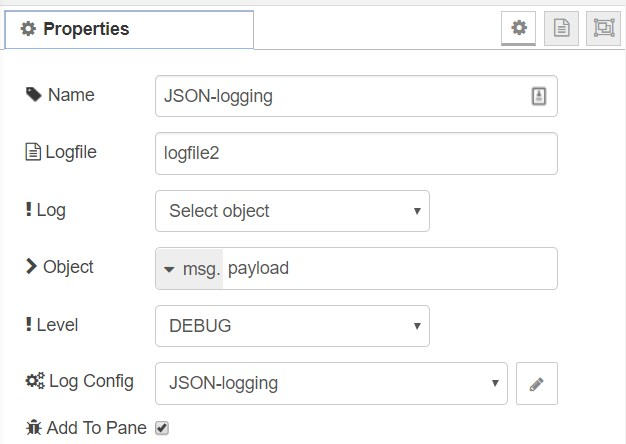
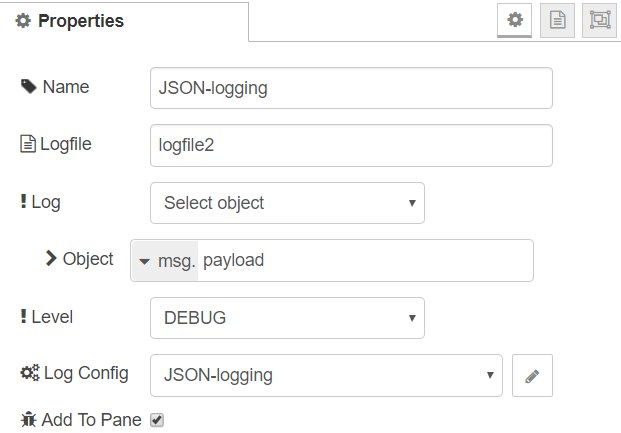
Indent if settings in web-if

diff --git a/flogger.html b/flogger.html
@@ -18,13 +18,9 @@
 		oneditprepare: function() {
 			$("#node-config-input-logrotate").change(function() {
       			if ($(this).is(':checked')) {
-      				$(".compress").show()
-      				$(".logrotatecount").show()
-      				$(".logsize").show()
+      				$("#node-config-rotate-row").show()
       			} else {
-      				$(".compress").hide()
-      				$(".logrotatecount").hide()
-      				$(".logsize").hide()
+      				$("#node-config-rotate-row").hide()
       			}
 			})
 		},
@@ -65,17 +61,19 @@
 		<label for="node-config-input-logrotate"><i class="fa fa-repeat"></i> Rotate</label>
 		<input type="checkbox" id="node-config-input-logrotate" style="display: inline-block; width: auto; vertical-align: top;">
 	</div>
-	<div class="form-row compress">
-		<label for="node-config-input-logcompress"><i class="fa fa-compress"></i> Compress</label>
-		<input type="checkbox" id="node-config-input-logcompress" style="display: inline-block; width: auto; vertical-align: top;">
-	</div>
-	<div class="form-row logrotatecount">
-		<label for="node-config-input-logrotatecount"><i class="fa fa-hashtag"></i> Max logfiles</label>
-		<input type="text" id="node-config-input-logrotatecount">
-	</div>
-	<div class="form-row logsize">
-		<label for="node-config-input-logsize"><i class="fa fa-hashtag"></i> Max size /kB</label>
-		<input type="text" id="node-config-input-logsize">
+	<div id="node-config-rotate-row">
+		<div class="form-row">
+			<label style="width: auto; margin-left: 20px; margin-right: 10px;" for="node-config-input-logcompress"><i class="fa fa-compress"></i> Compress</label>
+			<input type="checkbox" id="node-config-input-logcompress" style="display: inline-block; width: auto; vertical-align: top;">
+		</div>
+		<div class="form-row">
+			<label style="width: auto; margin-left: 20px; margin-right: 10px;" for="node-config-input-logrotatecount"><i class="fa fa-hashtag"></i> Max logfiles</label>
+			<input type="text" id="node-config-input-logrotatecount" style="display: inline-block; width: 50%; vertical-align: top;">
+		</div>
+		<div class="form-row">
+			<label style="width: auto; margin-left: 20px; margin-right: 10px;" for="node-config-input-logsize"><i class="fa fa-hashtag"></i> Max size /kB</label>
+			<input type="text" id="node-config-input-logsize" style="display: inline-block; width: 50%; vertical-align: top;">
+		</div>
 	</div>
 </script>
 
@@ -147,11 +145,11 @@
 		</select>
 	</div>
 		<div class="form-row inputmoustache">
-		<label for="node-input-inputobject"><i class="fa fa-chevron-right"></i> Moustache</label>
+		<label style="width: auto; margin-left: 20px; margin-right: 10px;" for="node-input-inputobject"><i class="fa fa-chevron-right"></i> Moustache</label>
 		<textarea id="node-input-inputmoustache" rows="5" style="width:70%"></textarea>
 	</div>
 	<div class="form-row inputobject">
-		<label for="node-input-inputobject"><i class="fa fa-chevron-right"></i> Object</label>
+		<label style="width: auto; margin-left: 20px; margin-right: 10px;" for="node-input-inputobject"><i class="fa fa-chevron-right"></i> Object</label>
 		<input type="text" id="node-input-inputobject" style="width:70%">
 		<input type="hidden" id="node-input-inputobjectType">
 	</div>

diff --git a/README.md b/README.md
@@ -6,6 +6,8 @@ With flogger you can log to multiple logfiles from everywhere in your flows.  It
 
 You can define different output formats like plain textfile or JSON format like NLOG. 
 
+Logrotation with/without compression can be enabled.
+
 **Here is an example of how to use the logger:**
 
 ![Example Flow](https://github.com/x821938/node-red-contrib-flogger/raw/master/misc/flow-example.jpg)
@@ -13,7 +15,7 @@ You can define different output formats like plain textfile or JSON format like 
 
 **Code:** 
 
-    [{"id":"9aa3c774.785628","type":"tab","label":"Flogger examples","disabled":false,"info":""},{"id":"bf46432d.11b6d","type":"inject","z":"9aa3c774.785628","name":"Inject object","topic":"nicetopic","payload":"{ \"field1\": \"content1\", \"field2\": \"content2\"}","payloadType":"json","repeat":"","crontab":"","once":false,"onceDelay":0.1,"x":130,"y":80,"wires":[["6ffba4f7.36441c"]]},{"id":"6ffba4f7.36441c","type":"change","z":"9aa3c774.785628","name":"Change loglevel","rules":[{"t":"set","p":"loglevel","pt":"msg","to":"DEBUG","tot":"str"}],"action":"","property":"","from":"","to":"","reg":false,"x":340,"y":80,"wires":[["dcfb9740.d188a8"]]},{"id":"dcfb9740.d188a8","type":"flogger","z":"9aa3c774.785628","name":"Log entire message","logfile":"logfile1","inputchoice":"fullmsg","inputobject":"","inputobjectType":"msg","inputmoustache":"","loglevel":"INFO","logconfig":"89c736eb.527178","sendpane":"","x":570,"y":80,"wires":[[]]},{"id":"f500ad8c.b0c5b","type":"inject","z":"9aa3c774.785628","name":"Inject object","topic":"MyTopic","payload":"{ \"field1\": \"content1\", \"field2\": \"content2\"}","payloadType":"json","repeat":"","crontab":"","once":false,"onceDelay":0.1,"x":350,"y":140,"wires":[["dcfb9740.d188a8"]]},{"id":"4cacb45b.54867c","type":"flogger","z":"9aa3c774.785628","name":"JSON-logging","logfile":"logfile2","inputchoice":"object","inputobject":"payload","inputobjectType":"msg","inputmoustache":"","loglevel":"DEBUG","logconfig":"65951bbf.0da744","sendpane":true,"x":320,"y":320,"wires":[["6b0e8d79.6822c4"]]},{"id":"cef722cc.85d82","type":"inject","z":"9aa3c774.785628","name":"","topic":"","payload":"","payloadType":"date","repeat":"","crontab":"","once":false,"onceDelay":0.1,"x":120,"y":320,"wires":[["4cacb45b.54867c"]]},{"id":"6b0e8d79.6822c4","type":"debug","z":"9aa3c774.785628","name":"Passthrough","active":true,"tosidebar":true,"console":false,"tostatus":false,"complete":"true","targetType":"full","x":550,"y":320,"wires":[]},{"id":"375008db.50b998","type":"inject","z":"9aa3c774.785628","name":"","topic":"MyTopic","payload":"MyString","payloadType":"str","repeat":"","crontab":"","once":false,"onceDelay":0.1,"x":140,"y":220,"wires":[["5cafa543.7640bc"]]},{"id":"5cafa543.7640bc","type":"flogger","z":"9aa3c774.785628","name":"Moustache logging","logfile":"logfile1","inputchoice":"moustache","inputobject":"payload","inputobjectType":"msg","inputmoustache":"Recieved payload {{payload}} and topic {{topic}}","loglevel":"TRACE","logconfig":"89c736eb.527178","sendpane":"","x":570,"y":220,"wires":[[]]},{"id":"89c736eb.527178","type":"config-log","z":"","logname":"standard-logging","logdir":"logs","stamp":"utc","logstyle":"plain"},{"id":"65951bbf.0da744","type":"config-log","z":"","logname":"JSON-logging","logdir":"logs","stamp":"local","logstyle":"json"}]
+    [{"id":"377f1788.fc8a68","type":"inject","z":"9f031946.5cd458","name":"Inject object","topic":"nicetopic","payload":"{ \"field1\": \"content1\", \"field2\": \"content2\"}","payloadType":"json","repeat":"","crontab":"","once":false,"onceDelay":0.1,"x":130,"y":80,"wires":[["bfb915fd.6f9b48"]]},{"id":"bfb915fd.6f9b48","type":"change","z":"9f031946.5cd458","name":"Change loglevel","rules":[{"t":"set","p":"loglevel","pt":"msg","to":"DEBUG","tot":"str"}],"action":"","property":"","from":"","to":"","reg":false,"x":340,"y":80,"wires":[["88a20401.3fe268"]]},{"id":"88a20401.3fe268","type":"flogger","z":"9f031946.5cd458","name":"Log entire message","logfile":"logfile1","inputchoice":"fullmsg","inputobject":"","inputobjectType":"msg","inputmoustache":"","loglevel":"INFO","logconfig":"8534e23c.037bc","sendpane":"","x":590,"y":80,"wires":[[]]},{"id":"1059364f.741efa","type":"inject","z":"9f031946.5cd458","name":"Inject object","topic":"MyTopic","payload":"{ \"field1\": \"content1\", \"field2\": \"content2\"}","payloadType":"json","repeat":"","crontab":"","once":false,"onceDelay":0.1,"x":350,"y":140,"wires":[["88a20401.3fe268"]]},{"id":"9bceb23.856d35","type":"flogger","z":"9f031946.5cd458","name":"JSON-logging","logfile":"logfile2","inputchoice":"object","inputobject":"payload","inputobjectType":"msg","inputmoustache":"","loglevel":"DEBUG","logconfig":"765188d9.56aba8","sendpane":true,"x":580,"y":320,"wires":[["5f66be4c.cfef7"]]},{"id":"70cdc2d2.df58cc","type":"inject","z":"9f031946.5cd458","name":"","topic":"","payload":"","payloadType":"date","repeat":"","crontab":"","once":false,"onceDelay":0.1,"x":120,"y":320,"wires":[["9bceb23.856d35"]]},{"id":"5f66be4c.cfef7","type":"debug","z":"9f031946.5cd458","name":"Passthrough","active":true,"tosidebar":true,"console":false,"tostatus":false,"complete":"true","targetType":"full","x":790,"y":320,"wires":[]},{"id":"cc4493c8.13aca","type":"inject","z":"9f031946.5cd458","name":"","topic":"MyTopic","payload":"MyString","payloadType":"str","repeat":"","crontab":"","once":false,"onceDelay":0.1,"x":140,"y":220,"wires":[["40062fa7.0890e"]]},{"id":"40062fa7.0890e","type":"flogger","z":"9f031946.5cd458","name":"Moustache logging","logfile":"logfile1","inputchoice":"moustache","inputobject":"payload","inputobjectType":"msg","inputmoustache":"Recieved payload {{payload}} and topic {{topic}}","loglevel":"TRACE","logconfig":"8534e23c.037bc","sendpane":"","x":590,"y":220,"wires":[[]]},{"id":"49e347a6.53fc58","type":"change","z":"9f031946.5cd458","name":"Change logfile","rules":[{"t":"set","p":"logfile","pt":"msg","to":"logfile3","tot":"str"}],"action":"","property":"","from":"","to":"","reg":false,"x":340,"y":400,"wires":[["9bceb23.856d35"]]},{"id":"5e94eecd.f05d8","type":"inject","z":"9f031946.5cd458","name":"Inject object","topic":"nicetopic","payload":"{ \"field1\": \"content1\", \"field2\": \"content2\"}","payloadType":"json","repeat":"","crontab":"","once":false,"onceDelay":0.1,"x":130,"y":400,"wires":[["49e347a6.53fc58"]]},{"id":"8534e23c.037bc","type":"config-log","z":"","logname":"standard-logging","logdir":"logs","stamp":"utc","logstyle":"plain","logrotate":true,"logcompress":true,"logrotatecount":"5","logsize":"10"},{"id":"765188d9.56aba8","type":"config-log","z":"","logname":"JSON-logging","logdir":"logs","stamp":"local","logstyle":"json","logrotate":true,"logcompress":false,"logrotatecount":"3","logsize":"1"}]
 
 **A log config - most people probably only need one:**
 
@@ -25,12 +27,13 @@ You can define different output formats like plain textfile or JSON format like 
 
 **Example output ~/logs/logfile1:**
 
-    2019/06/28 16:35:30 DEBUG [msg] {"_msgid":"1106ea8d.116c15","topic":"nicetopic","payload":{"field1":"content1","field2":"content2"},"loglevel":"DEBUG"}
-    2019/06/28 16:35:31 INFO [msg] {"_msgid":"c5195428.943708","topic":"MyTopic","payload":{"field1":"content1","field2":"content2"}}
-    2019/06/28 16:35:33 TRACE [moustache] Recieved payload MyString and topic MyTopic
+    2019/07/15 14:46:37Z DEBUG [msg] {"_msgid":"c0464871.a0c7f8","topic":"nicetopic","payload":{"field1":"content1","field2":"content2"},"loglevel":"DEBUG"}
+	2019/07/15 14:46:39Z INFO [msg] {"_msgid":"61f9b407.086f7c","topic":"MyTopic","payload":{"field1":"content1","field2":"content2"}}
+	2019/07/15 14:46:42Z TRACE [moustache] Recieved payload MyString and topic MyTopic
+
 
 
 **Example output ~/logs/logfile2:**
 
-    {"time":"2019/06/28 18:35:34","level":"DEBUG","var":"msg.payload","message":1561739734914}
-    {"time":"2019/06/28 18:35:36","level":"DEBUG","var":"msg.payload","message":1561739736605}
+    {"time":"2019/07/15 16:46:46","level":"DEBUG","var":"msg.payload","message":1563202006292}
+	{"time":"2019/07/15 16:46:51","level":"DEBUG","var":"msg.payload","message":1563202011877}
